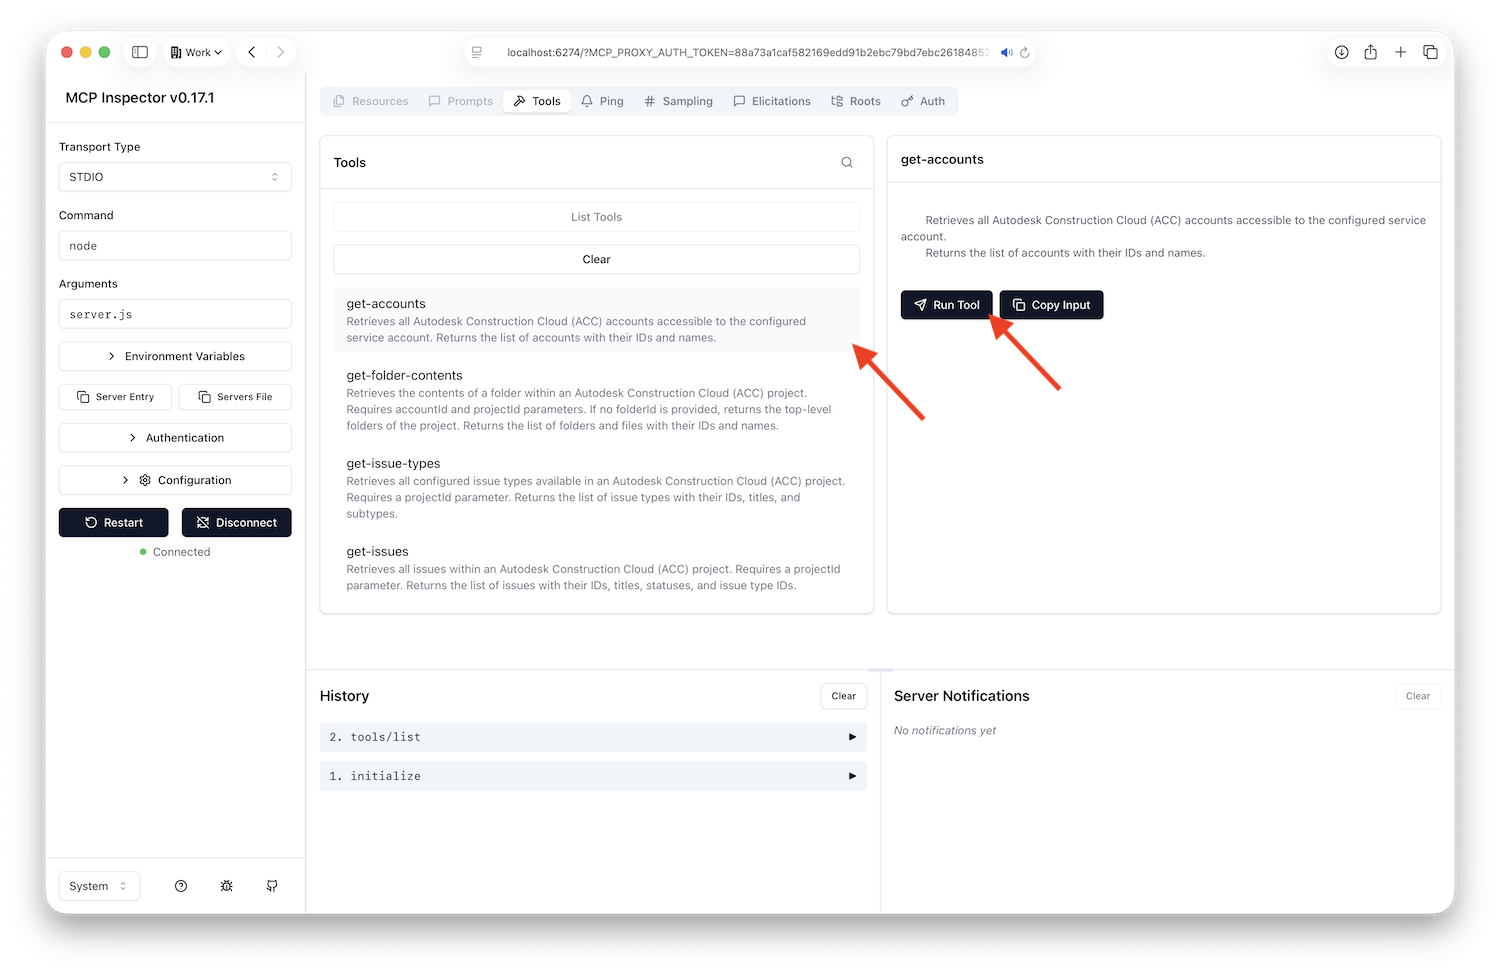
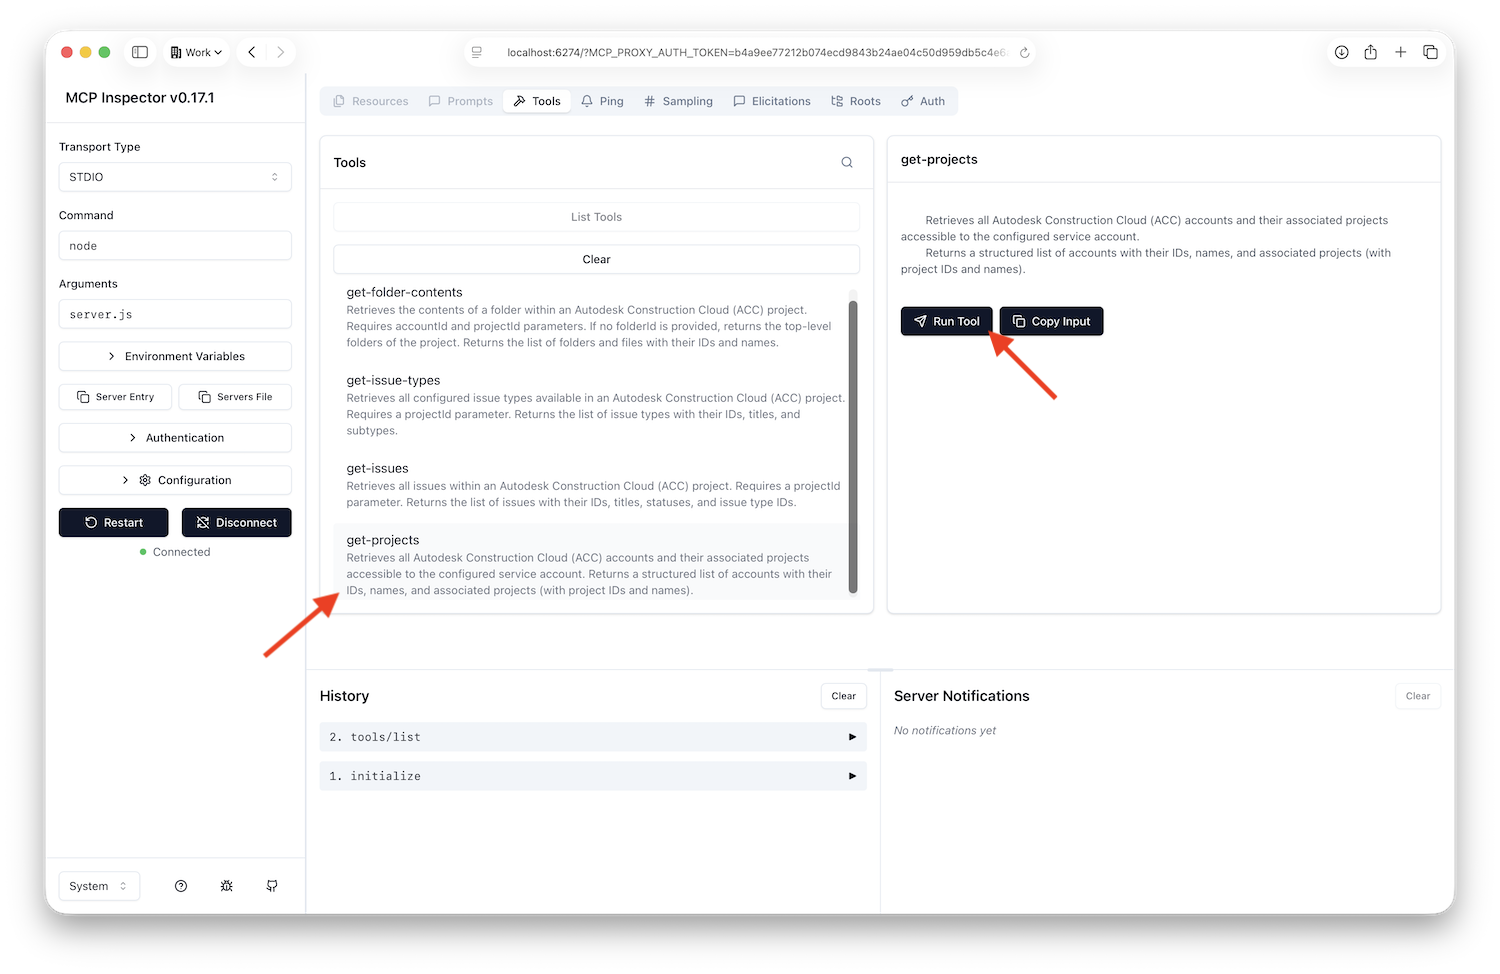
Merged get-accounts and get-projects into a single tool.

Changed region(s): [[0.184, 0.2156, 0.9507, 0.6776], [0.4907, 0.0308, 0.6747, 0.0616], [0.6133, 0.154, 0.644, 0.1848]]

diff --git a/tools/get-projects.js b/tools/get-projects.js
@@ -1,27 +1,31 @@
-import { z } from "zod";
 import { dataManagementClient } from "../utils.js";
 
 export const getProjects = {
     title: "get-projects",
     description: `
-        Retrieves all projects within a specified Autodesk Construction Cloud (ACC) account.
-        Requires an accountId parameter. Returns project IDs and names that can be used to access
-        project-specific data such as folders, documents, and issues.
+        Retrieves all Autodesk Construction Cloud (ACC) accounts and their associated projects accessible to the configured service account.
+        Returns a structured list of accounts with their IDs, names, and associated projects (with project IDs and names).
     `,
-    schema: {
-        accountId: z.string().nonempty()
-    },
-    callback: async ({ accountId }) => {
-        const response = await dataManagementClient.getHubProjects(accountId);
-        const projects = response.data || [];
-        return {
-            content: projects.map((project) => ({
-                type: "text",
-                text: JSON.stringify({
+    schema: {},
+    callback: async ({}) => {
+        const response = await dataManagementClient.getHubs();
+        const hubs = response.data || [];
+        const projects = await Promise.all(hubs.map(hub => dataManagementClient.getHubProjects(hub.id).then(res => res.data || [])));
+        const results = {
+            accounts: hubs.map((hub, i) => ({
+                id: hub.id,
+                name: hub.attributes.name,
+                projects: projects[i].map(project => ({
                     id: project.id,
                     name: project.attributes.name
-                })
+                }))
             }))
+        };
+        return {
+            content: [{
+                type: "text",
+                text: JSON.stringify(results, null, 2)
+            }]
         };
     }
 };

diff --git a/tools/index.js b/tools/index.js
@@ -1,4 +1,3 @@
-export { getAccounts } from "./get-accounts.js";
 export { getProjects } from "./get-projects.js";
 export { getFolderContents } from "./get-folder-contents.js";
 export { getIssues } from "./get-issues.js";

diff --git a/docs/part3-mcp-tools/index.md b/docs/part3-mcp-tools/index.md
@@ -2,83 +2,43 @@
 
 In this part of the tutorial you will implement individual tools for our MCP server, and test them out.
 
-## Get Accounts
-
-The first tool we will implement is the **Get Accounts** tool. This tool will return a list of accounts that the authenticated user has access to.
-
-### Implement Get Accounts Tool
-
-Create `tools/get-accounts.js` with the following code:
-
-```javascript
-import { dataManagementClient } from "../utils.js";
-
-export const getAccounts = {
-    title: "get-accounts",
-    description: `
-        Retrieves all Autodesk Construction Cloud (ACC) accounts accessible to the configured service account.
-        Returns the list of accounts with their IDs and names.
-    `,
-    schema: {},
-    callback: async () => {
-        const response = await dataManagementClient.getHubs();
-        const hubs = response.data || [];
-        return {
-            content: hubs.map((hub) => ({
-                type: "text",
-                text: JSON.stringify({
-                    id: hub.id,
-                    name: hub.attributes.name
-                })
-            }))
-        };
-    }
-};
-```
-
-### Add Get Accounts Tool to Index
-
-Add the following line of code to `tools/index.js`:
-
-```javascript
-export { getAccounts } from "./get-accounts.js";
-```
-
-This will make sure that the tool is registered when the server starts.
-
 ## Get Projects
 
-Next, we will implement the **Get Projects** tool. This tool will return a list of projects for a given account.
+First, we will implement the **Get Projects** tool. This tool will return a list of hubs and projects the service account has access to.
 
 ### Implement Get Projects Tool
 
 Create `tools/get-projects.js` with the following code:
 
 ```javascript
-import { z } from "zod";
 import { dataManagementClient } from "../utils.js";
 
 export const getProjects = {
     title: "get-projects",
     description: `
-        Retrieves all projects within a specified Autodesk Construction Cloud (ACC) account.
-        Requires an accountId parameter. Returns project IDs and names that can be used to access
-        project-specific data such as folders, documents, and issues.
+        Retrieves all Autodesk Construction Cloud (ACC) accounts and their associated projects accessible to the configured service account.
+        Returns a structured list of accounts with their IDs, names, and associated projects (with project IDs and names).
     `,
-    schema: {
-        accountId: z.string().nonempty()
-    },
-    callback: async ({ accountId }) => {
-        const response = await dataManagementClient.getHubProjects(accountId);
-        const projects = response.data || [];
-        return {
-            content: projects.map((project) => ({
-                type: "text",
-                text: JSON.stringify({
+    schema: {},
+    callback: async ({}) => {
+        const response = await dataManagementClient.getHubs();
+        const hubs = response.data || [];
+        const projects = await Promise.all(hubs.map(hub => dataManagementClient.getHubProjects(hub.id).then(res => res.data || [])));
+        const results = {
+            accounts: hubs.map((hub, i) => ({
+                id: hub.id,
+                name: hub.attributes.name,
+                projects: projects[i].map(project => ({
                     id: project.id,
                     name: project.attributes.name
-                })
+                }))
             }))
+        };
+        return {
+            content: [{
+                type: "text",
+                text: JSON.stringify(results, null, 2)
+            }]
         };
     }
 };
@@ -269,13 +229,13 @@ This time, we should be able to get a list of tools exposed by our MCP server, a
 
 ![MCP Inspector - List Tools](images/mcp-inspector-list-tools.png)
 
-As a result, the UI should list tools such as `get-accounts`, `get-folder-contents`, `get-issue-types`, etc.
+As a result, the UI should list tools such as `get-projects`, `get-folder-contents`, `get-issue-types`, etc.
 
 ![MCP Inspector - List Tools Result](images/mcp-inspector-list-tools-result.png)
 
-### Test Get Accounts Tool
+### Test Get Projects Tool
 
-Now, let's try the tool for listing ACC hubs that our service account has access to. Select the **get-accounts** tool, and click **Run**.
+Now, let's try the tool for listing ACC hubs that our service account has access to. Select the **get-projects** tool, and click **Run**.
 
 ![MCP Inspector - Run Tool](images/mcp-inspector-run-tool.png)
 

diff --git a/docs/README.md b/docs/README.md
@@ -20,11 +20,10 @@ Instead of building custom integrations for each AI assistant (Claude, ChatGPT, 
 
 In this tutorial, you'll implement an MCP server that exposes the following tools to AI assistants:
 
-1. **get-accounts** - Retrieve all ACC accounts accessible to your service account
-2. **get-projects** - List all projects within a specific ACC account
-3. **get-folder-contents** - Browse folders and files in an ACC project
-4. **get-issues** - List all issues in an ACC project
-5. **get-issue-types** - Retrieve available issue types for a project
+1. **get-projects** - Retrieve all ACC accounts and projects accessible to your service account
+2. **get-folder-contents** - Browse folders and files in an ACC project
+3. **get-issues** - List all issues in an ACC project
+4. **get-issue-types** - Retrieve available issue types for a project
 
 These tools enable AI assistants to:
 
